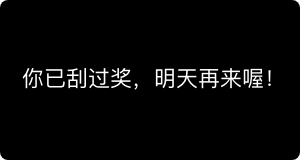
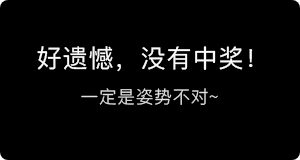
中枪率设置

Changed region(s): [[0.06, 0.2812, 0.93, 0.6562]]

diff --git a/gua-gua/index.html b/gua-gua/index.html
@@ -1,227 +1,59 @@
 <!DOCTYPE html>
 
 <html lang="en">
-
 	<head>
-
 		<meta charset="utf-8" />
-
 		<meta name='HandheldFriendly' content='True' />
-
 		<!--<meta name='viewport' content='initial-scale=1.0; maximum-scale=1.0; user-scalable=0;' />-->
-
 		<meta name='viewport' content='user-scalable=0' />
-
 		<meta name="viewport" content="width=device-width" />
-
-        <title>瓜瓜</title>
-
-
-
-		<style type="text/css">
-
-		* {
-
-		  -webkit-touch-callout: none; /* prevent callout to copy image, etc when tap to hold */
-
-		  -webkit-text-size-adjust: none; /* prevent webkit from resizing text to fit */
-
-		/* make transparent link selection, adjust last value opacity 0 to 1.0 */
-
-		  -webkit-tap-highlight-color: rgba(0,0,0,0);
-
-		  -webkit-user-select: none; /* prevent copy paste, to allow, change 'none' to 'text' */
-
-		 /* -webkit-tap-highlight-color: rgba(0,0,0,0); */
-
-		}
-
-
-			.body-box{
-				background: url('./img/guaguaka_bg.png') no-repeat;
-				background-size: 100%;
-				width: 100vw;
-				height: 100vh;
-			}
-			body {
-
-				background: #FFF;
-
-				margin: 0;
-
-				color: #000;
-
-				padding: 0px;
-
-				text-align: center;
-
-				font-family: Helvetica, Arial;
-
-			}
-			a {
-
-				color: #000;
-
-			}
-
-
-
-			a.box {
-
-				text-decoration: none;
-
-				display: inline-block;
-
-				color: #FFF;
-
-				background: #000;
-
-				padding: 10px;
-
-				margin: 10px;
-
-			}
-
-			.container {
-
-				/* position: relative; */
-
-				/* display: inline-block; */
-
-				width: 100%;
-
-				height: 160px;
-				padding-top: 200px;
-
-			}
-
-
-
-			#robot {
-
-				position: absolute;
-
-				/* top: 50%; */
-
-				left: 50%;
-				transform: translateX(-50%);
-
-				z-index: 1;
-
-				-webkit-box-shadow: 0px 0px 20px 0px #707070;
-
-				-moz-box-shadow: 0px 0px 20px 0px #707070;
-
-				box-shadow: 0px 0px 20px 0px #707070;
-
-			}
-
-
-
-			#redux {
-
-				position: absolute;
-
-				transform: translateX(-50%);
-				/* top: 50%; */
-
-				left: 50%;
-
-				z-index: 2;
-
-			}
-
-
-
-		</style>
-
+		<title>瓜瓜卡</title>
+		<link rel="stylesheet" href="./index.css">
 	</head>
-
 	<body>
 		<div class="body-box">
 			<div class="container">
-
-				<img id="robot" src="img/nice.png" />
-	
+				<img id="robot" src="img/sry.png" />
 				<img id="redux" src="img/mask.png" />
-	
 			</div>
-	
 			<p>
-	
 				<a href="#" onclick="reset(event);" class="box"> RESET </a>
-	
 				<a href="#" onclick="remove(event);" class="box"> CLEAR </a>
-	
 				<!--<a href="#" onclick="grow(event);" class="box"> GROW </a>-->
-	
 			</p>
 		</div>
-
-
-
-	<!-- <br/> -->
-
-			<!-- <a href="teeth.htm">or brush his teeth</a>.</p> -->
-
-
-
 		<script src="http://www.jq22.com/jquery/2.1.1/jquery.min.js"></script>
-
 		<script src='jquery.eraser.js' type='text/javascript'></script>
-
 		<script type = "text/javascript">
-
-
-
 			addEventListener( "load", init, false );
-
 			function init( event ) {
-
 				$("#redux").eraser();
-
 				// you can alse specify the brush size (in pixel) by using options :
-
 				// $("#redux").eraser({size: 20});
-
 			}
-
-
-
 			function remove(event) {
-
 				$("#redux").eraser('clear');
-
 				event.preventDefault();
-
 			}
-
-
-
 			function reset(event) {
-
 				$("#redux").eraser('reset');
-
 				event.preventDefault();
-
 			}
-
-
-
 			// function grow(event) {
-
 			// 	$("#redux").eraser("size",200);
-
 			// 	event.preventDefault();
-
 			// }
-
+			window.onload = function() {
+				var wardRate = function() {
+					const rate = parseInt(Math.random() * 100)
+					if(rate>90){
+						$('#robot').attr('src', 'img/nice.png')
+					} else {
+						$('#robot').attr('src', 'img/sry.png')
+					}
+				}
+				wardRate();
+			}
 		</script>
-
-
-
 	</body>
-
-
-
 </html>

diff --git a/gua-gua/index.css b/gua-gua/index.css
@@ -1,0 +1,57 @@
+* {
+  -webkit-touch-callout: none; /* prevent callout to copy image, etc when tap to hold */
+  -webkit-text-size-adjust: none; /* prevent webkit from resizing text to fit */
+/* make transparent link selection, adjust last value opacity 0 to 1.0 */
+  -webkit-tap-highlight-color: rgba(0,0,0,0);
+  -webkit-user-select: none; /* prevent copy paste, to allow, change 'none' to 'text' */
+ /* -webkit-tap-highlight-color: rgba(0,0,0,0); */
+}
+  .body-box{
+    background: url('./img/guaguaka_bg.png') no-repeat;
+    background-size: 100%;
+    width: 100vw;
+    height: 100vh;
+  }
+  body {
+    background: #FFF;
+    margin: 0;
+    color: #000;
+    padding: 0px;
+    text-align: center;
+    font-family: Helvetica, Arial;
+  }
+  a {
+    color: #000;
+  }
+  a.box {
+    text-decoration: none;
+    display: inline-block;
+    color: #FFF;
+    background: #000;
+    padding: 10px;
+    margin: 10px;
+  }
+  .container {
+    /* position: relative; */
+    /* display: inline-block; */
+    width: 100%;
+    height: 160px;
+    padding-top: 200px;
+  }
+  #robot {
+    position: absolute;
+    /* top: 50%; */
+    left: 50%;
+    transform: translateX(-50%);
+    z-index: 1;
+    -webkit-box-shadow: 0px 0px 20px 0px #707070;
+    -moz-box-shadow: 0px 0px 20px 0px #707070;
+    box-shadow: 0px 0px 20px 0px #707070;
+  }
+  #redux {
+    position: absolute;
+    transform: translateX(-50%);
+    /* top: 50%; */
+    left: 50%;
+    z-index: 2;
+  }
